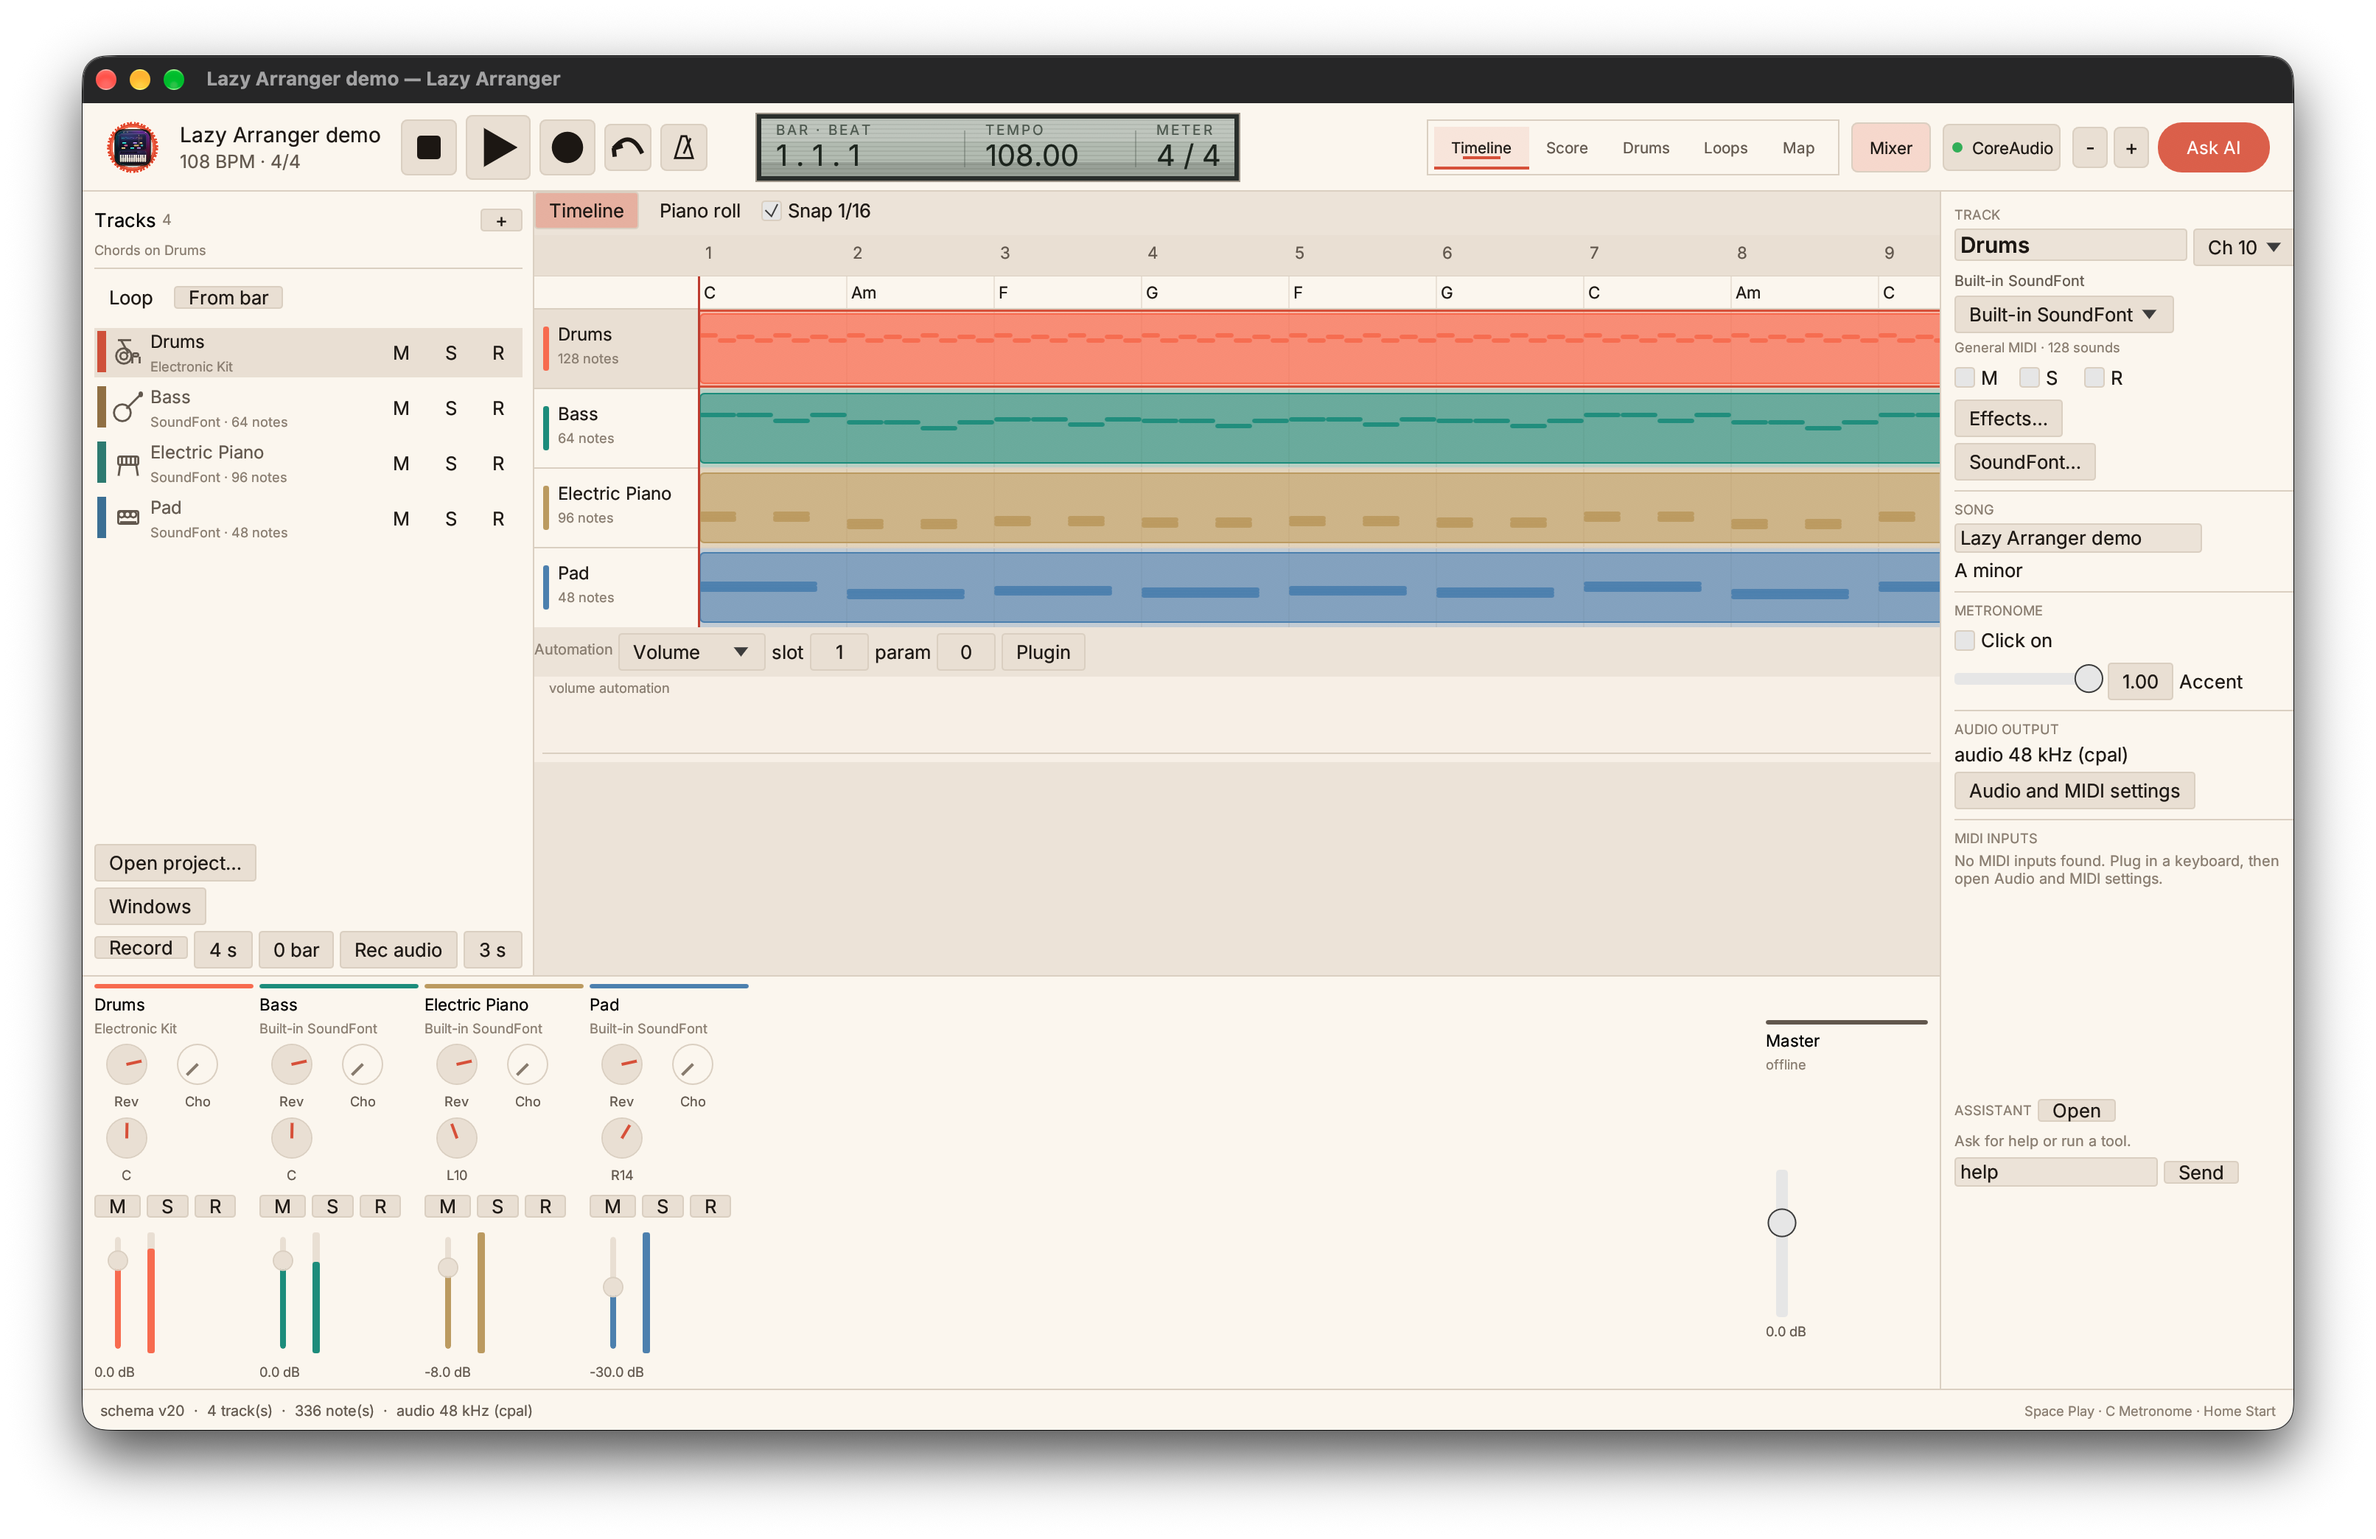
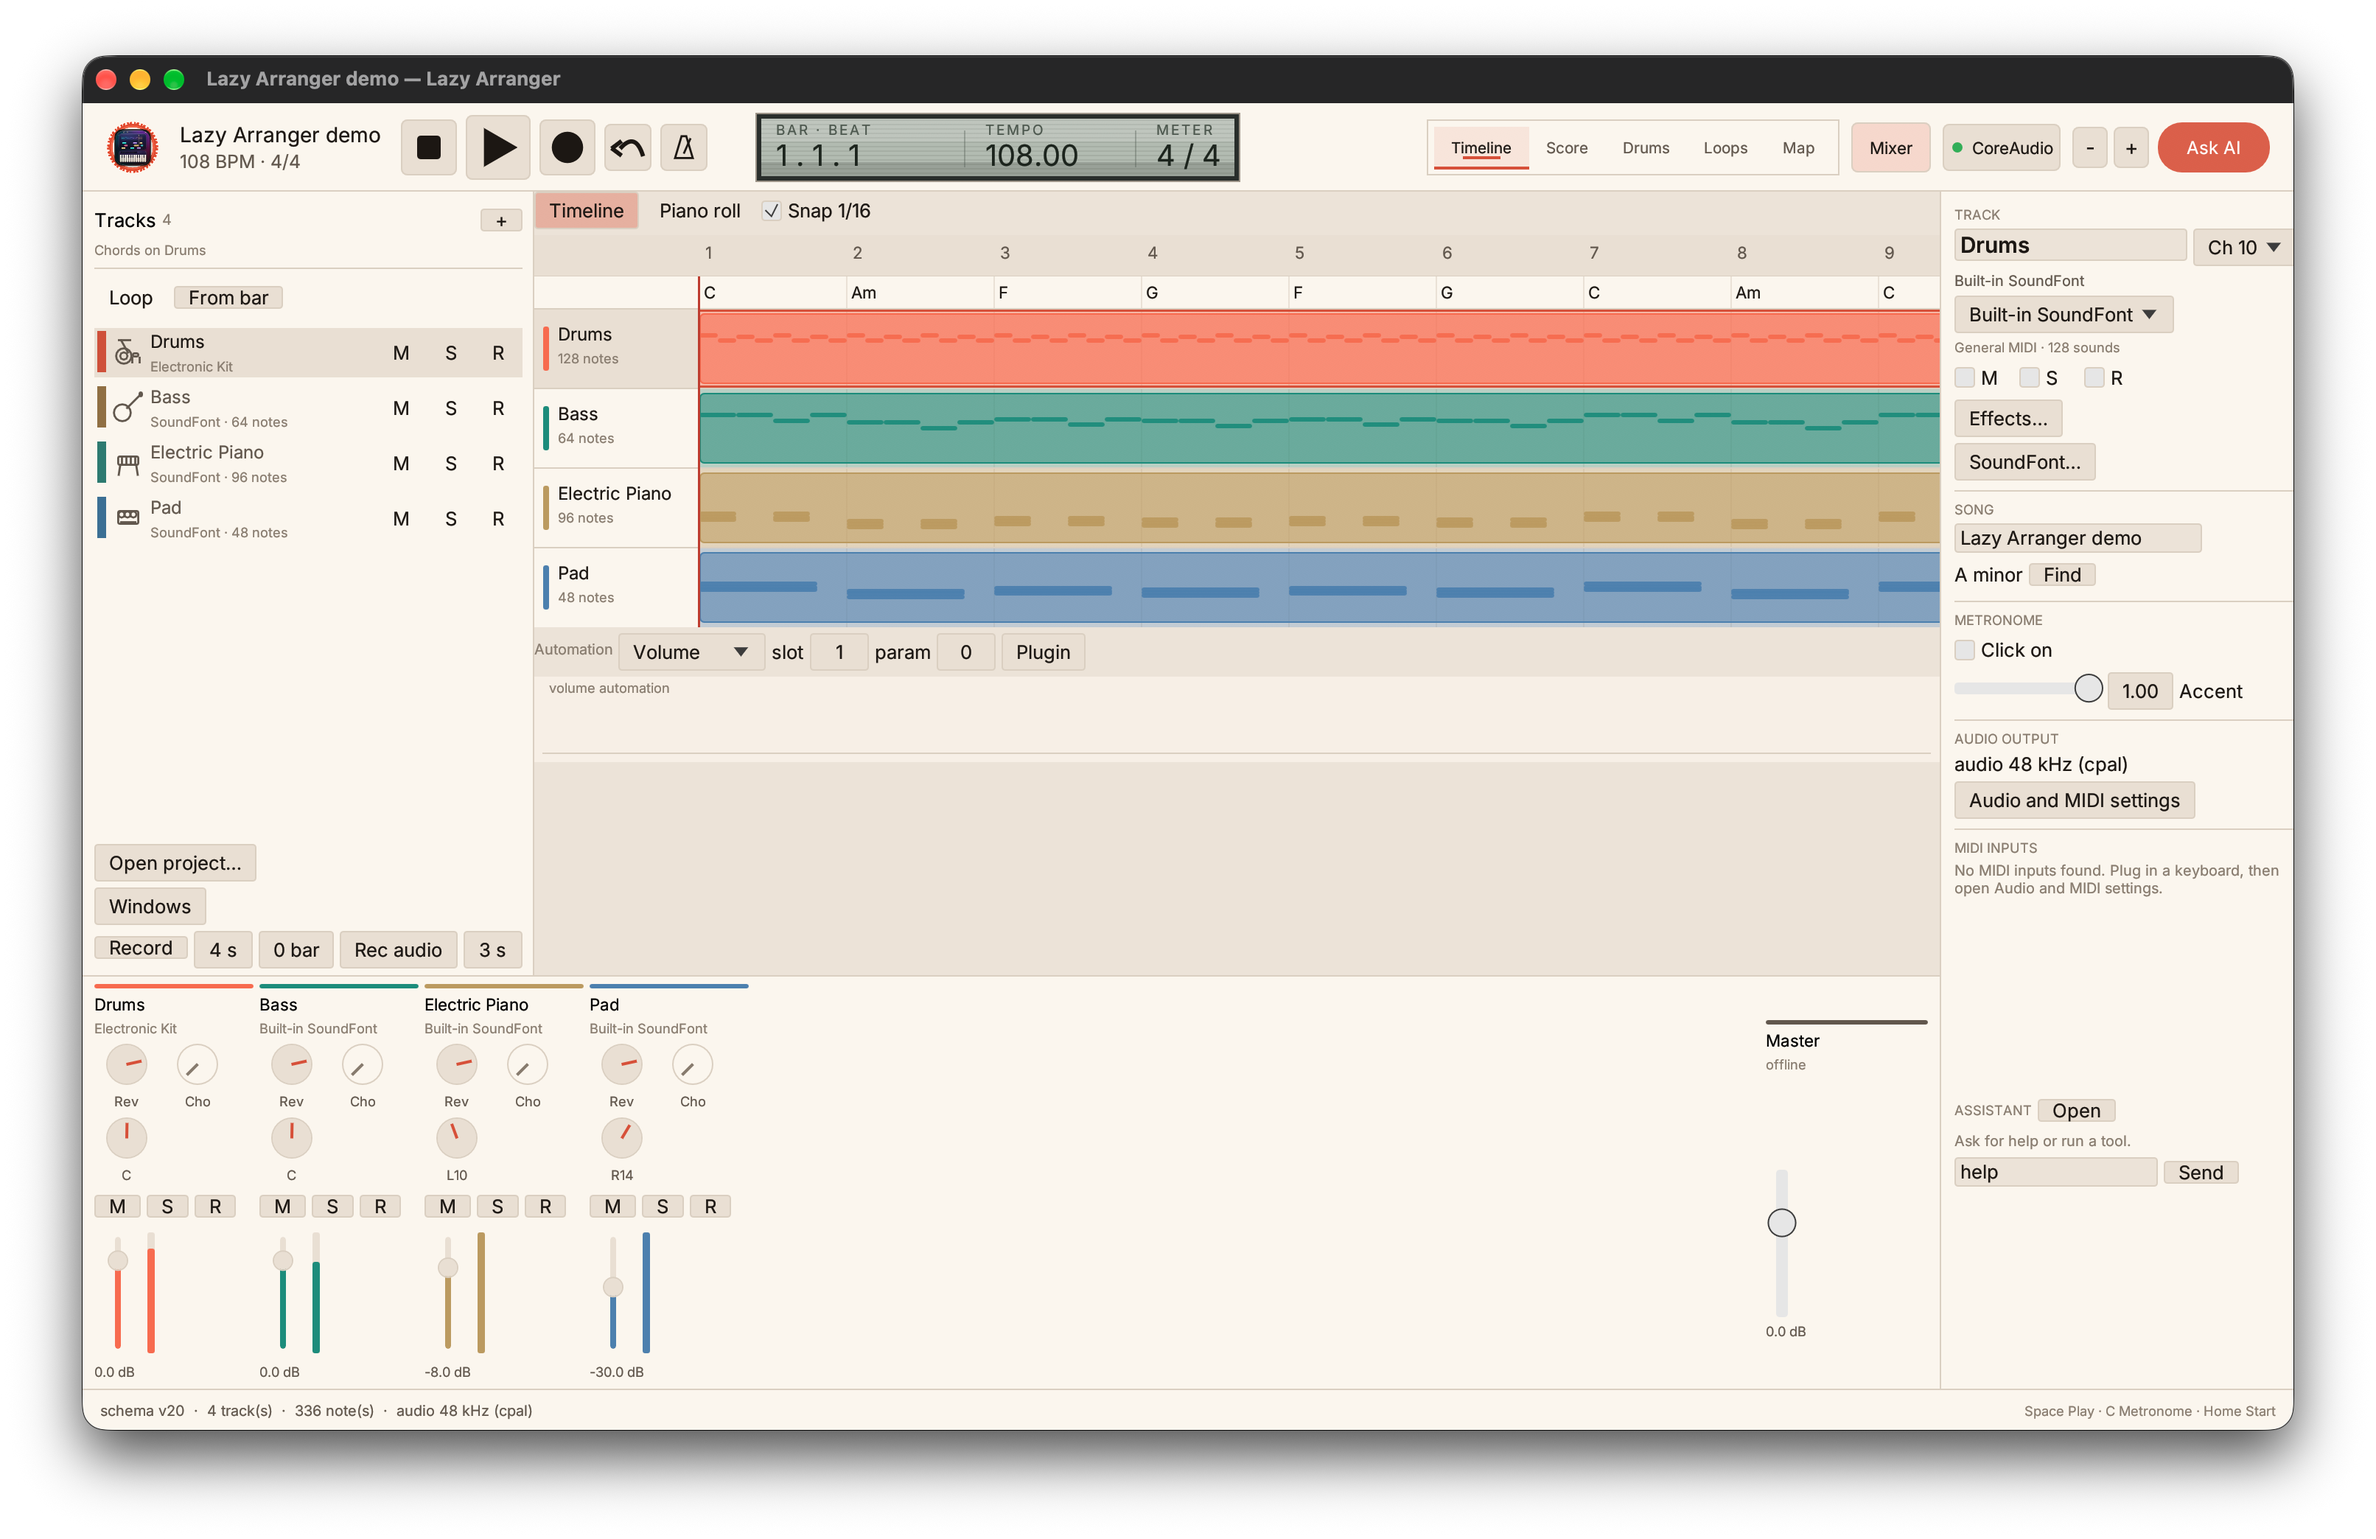
fix(desktop): point the undo arrow the right way
Redraws undo as a left-pointing arrow with a curved tail instead of a hooked arc.

713 tests pass; clippy, fmt and rustdoc clean.

Changed region(s): [[0.8065, 0.4358, 0.9615, 0.5915], [0.8065, 0.3424, 0.8995, 0.4358]]

diff --git a/apps/desktop/src/app.rs b/apps/desktop/src/app.rs
@@ -9301,28 +9301,29 @@ fn draw_transport_icon(painter: &egui::Painter, rect: Rect, glyph: &str, color: 
         }
         "\u{21B6}" => {
             let stroke = egui::Stroke::new((s * 0.09).max(1.2), color);
-            let tip = egui::pos2(c.x - s * 0.30, c.y + s * 0.02);
-            let control = egui::pos2(c.x + s * 0.05, c.y - s * 0.40);
-            let end = egui::pos2(c.x + s * 0.30, c.y + s * 0.12);
+            let tip = egui::pos2(c.x - s * 0.34, c.y + s * 0.02);
+            painter.line_segment(
+                [tip, egui::pos2(tip.x + s * 0.20, tip.y - s * 0.15)],
+                stroke,
+            );
+            painter.line_segment(
+                [tip, egui::pos2(tip.x + s * 0.20, tip.y + s * 0.15)],
+                stroke,
+            );
+            let start = egui::pos2(tip.x + s * 0.18, tip.y);
+            let control = egui::pos2(c.x + s * 0.16, c.y - s * 0.34);
+            let end = egui::pos2(c.x + s * 0.32, c.y + s * 0.18);
             let points: Vec<egui::Pos2> = (0..=16)
                 .map(|index| {
                     let t = index as f32 / 16.0;
                     let one = 1.0 - t;
                     egui::pos2(
-                        one * one * tip.x + 2.0 * one * t * control.x + t * t * end.x,
-                        one * one * tip.y + 2.0 * one * t * control.y + t * t * end.y,
+                        one * one * start.x + 2.0 * one * t * control.x + t * t * end.x,
+                        one * one * start.y + 2.0 * one * t * control.y + t * t * end.y,
                     )
                 })
                 .collect();
             painter.add(egui::Shape::line(points, stroke));
-            painter.line_segment(
-                [tip, egui::pos2(tip.x + s * 0.18, tip.y - s * 0.05)],
-                stroke,
-            );
-            painter.line_segment(
-                [tip, egui::pos2(tip.x + s * 0.02, tip.y + s * 0.17)],
-                stroke,
-            );
         }
         _ => {
             painter.text(

diff --git a/docs/audit/cpp-features-crosscheck.md b/docs/audit/cpp-features-crosscheck.md
@@ -8,7 +8,7 @@ section below is a row, so nothing is skipped. Status: **verified**,
 | § | C++ feature | Rust | Key gap / evidence |
 | --- | --- | --- | --- |
 | 1 | Projects and files | partial | `.arranger` open/save, autosave/recovery, SMF export (CLI and shell Export MIDI), `midi-import` (5 source tracks/336 notes) and desktop opening of `.mid`/`.midi` and `.musicxml`/`.xml` as untitled imports, plus an Open/Save as path window (Cmd+O, Cmd+Shift+S; Cmd+S on an untitled import opens Save as), WAV export in 16/24-bit PCM and 32-bit float (CLI and shell), MusicXML export/import (CLI and shell), style save, PSR-S970 song export. Recent list with Clear and audio-reference import (WAV/FLAC/MP3/M4A/AIFF/OGG); Save-as appends `.json` when no extension is typed. No editing of audio, PDF, Korg, L6max, SysEx |
-| 2 | Window: header, views, inspector, mixer panel, AI panel, light theme, zoom | partial | Tooltips use a 0.6 s delay like the C++ shell; header restyled with square transport with vector play/stop/record/curved-undo/metronome icons, light view tabs, Mixer toggle, CoreAudio/zoom cluster on wide windows and Ask AI; left/right/bottom panels are resizable, the mixer hides, Timeline, Score, Drums, Loops and Map views, Tracks header with Chords-on line, add, patch text and C++-shaped instrument icons (drums, guitar, bass, brass, piano, synth, waveform, generic keys), and C++-style Mixer strips with the master fader pinned far right with Rev/Cho and pan knobs, M/S/R, vertical faders, meters and a master fader (`docs/audit/ui-mixer.png`), volume automation lane, dark and light palettes (Settings toggle, live refresh), square corners, wheel and slider zoom; an Inspector window shows/edits the selected track's name, gain, pan, flags, program and summaries, and sidebar has a Windows menu for Inspector, Library, Pads, Assistant, MIDI map, Controllers, Lyrics, Markers, imports/exports and Settings. Light palette is selected in Settings; `docs/audit/light-theme.png` is a captured light window |
+| 2 | Window: header, views, inspector, mixer panel, AI panel, light theme, zoom | partial | Tooltips use a 0.6 s delay like the C++ shell; header restyled with square transport with vector play/stop/record/left-arrow-undo/metronome icons, light view tabs, Mixer toggle, CoreAudio/zoom cluster on wide windows and Ask AI; left/right/bottom panels are resizable, the mixer hides, Timeline, Score, Drums, Loops and Map views, Tracks header with Chords-on line, add, patch text and C++-shaped instrument icons (drums, guitar, bass, brass, piano, synth, waveform, generic keys), and C++-style Mixer strips with the master fader pinned far right with Rev/Cho and pan knobs, M/S/R, vertical faders, meters and a master fader (`docs/audit/ui-mixer.png`), volume automation lane, dark and light palettes (Settings toggle, live refresh), square corners, wheel and slider zoom; an Inspector window shows/edits the selected track's name, gain, pan, flags, program and summaries, and sidebar has a Windows menu for Inspector, Library, Pads, Assistant, MIDI map, Controllers, Lyrics, Markers, imports/exports and Settings. Light palette is selected in Settings; `docs/audit/light-theme.png` is a captured light window |
 | 3 | Tracks | partial | MIDI tracks with program, volume, pan, mute/solo/arm and audio references (schema v11); track list, mixer strips and keyboard export honour them; tracks also carry a SoundFont reference (v16) and audio references draw waveform peaks. No per-track input routing or multiple outputs |
 | 4 | Transport: play/stop, start, record, loop, metronome, ruler, tempo/meter edit, MIDI record, all-notes-off, auto inputs | partial | Audio play/pause/stop with silence on stop; CLI MIDI record/echo and clip-grid take recording. A sidebar Record button captures the selected MIDI keyboard for a chosen 1–60 s on a background thread and inserts the notes as one undoable track; the piano-roll ruler shows bar numbers and clicking it seeks the live player through the tempo map; `midi-panic` sends CC 123 on all 16 channels to a named output (no ports attached here, so the send is unverified); a persisted 0–2 bar count-in plays an audible metronome through a temporary cpal player before MIDI recording; the header transport has a record button and track rows have an R arm toggle; MIDI recording appends to the armed track (new track when none is armed); the 0–2 bar audible count-in precedes audio-input capture, which targets a record-armed track's audio reference; audio capture and input monitoring can select a named input device from Settings and fall back to the system default; no auto inputs; a Settings toggle quantises recorded starts to 1/16 before the take is inserted; the Inspector lists tempo changes and writes one at the playhead. The sidebar has Loop and From bar controls (playback restarts at the loop start), and a generated click track (bar downbeats accented) mixes into playback and `export-audio --metronome` |
 | 5 | Timeline clips | partial | A C++-style Timeline view is the Arrange default with horizontal scrolling and header zoom: coloured per-track lanes with clips, notes, bar numbers and chords, plus a Piano roll toggle for detailed editing. Clip and chord lanes: click select, arrow move, shift+arrow resize, J join, N add, Delete remove; clip commands are undoable with overlap rejection. Markers and syllables are editable in Markers and Lyrics windows; markers draw in the bar ruler and each row has Go (add at playhead, edit or remove); timeline lyrics draw in their lane and a click seeks the playhead to the syllable; the Snap 1/16 toggle governs note drags and insertions; Shift-click and marquee multi-select clips, with arrow/Shift-arrow/Delete operations |

diff --git a/docs/audit/final-status.md b/docs/audit/final-status.md
@@ -117,5 +117,5 @@ For the clef layout, choose either four measures per system without clefs
 - Inspector channel picker moves all track notes to a channel as one undoable edit (`docs/audit/ui-channel.png`).
 - Timeline scrolls horizontally and header +/- zooms it (`docs/audit/ui-timeline-scroll.png`).
 - Mixer meters follow active notes at the playhead; master meter takes the loudest track (`docs/audit/ui-meters.png`).
-- Undo glyph redrawn as a clean curved arrow (`docs/audit/ui-undo.png`).
+- Undo glyph redrawn as a left arrow with a curved tail (`docs/audit/ui-undo.png`).
 - Tracks default to the first row; M/S/R clicks no longer change row selection; inspector key has Find.
